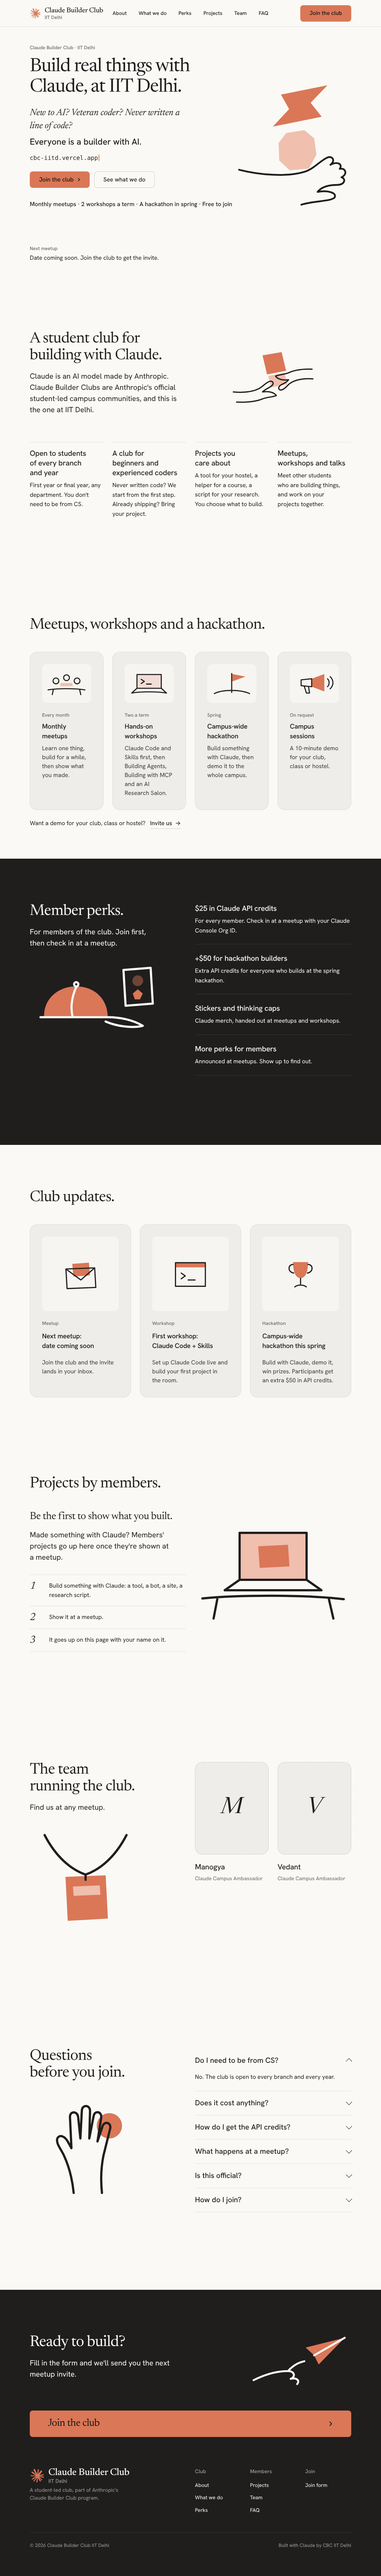
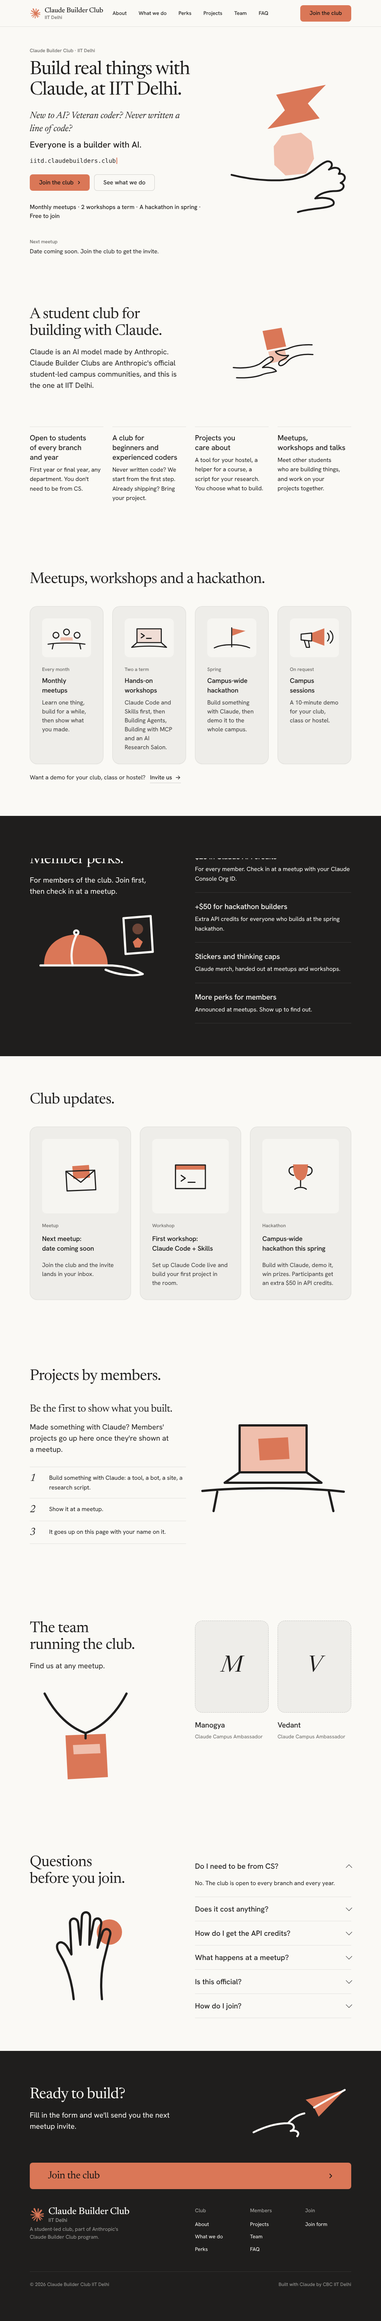
Size sections to their content instead of whole screens
The kit's one-section-per-screen heights left empty bands on phones and
laptops. Every section is now as tall as what it holds, with even spacing;
the hero keeps the meetup line under the words and the drawing beside them.
Screenshots refreshed.

Claude-Session: https://claude.ai/code/session_01NmTKE1EcXAeuXHtT4Ci9MJ

diff --git a/css/site.css b/css/site.css
@@ -213,3 +213,40 @@ html.js-fade .fade-up.is-in { opacity: 1; transform: none; }
 @media (min-width: 640px) and (max-width: 1023px) { .draw--perks svg { height: 216px; } }
 .lockup__name, .lockup__place { white-space: nowrap; }
 @media (max-width: 639px) { svg.close__art { display: block; height: 150px; margin-top: var(--s-5); } }
+
+/* Every width: sections are as tall as what they hold, with even spacing between them. The kit sizes each
+   section to whole screens (one section per screen), which left empty bands on phones and laptops alike;
+   the club asked for the page without them. */
+main > section, footer.closing { height: auto !important; min-height: 0 !important; display: block !important; padding: 96px 0 88px !important; }
+main > section > .wrap, footer.closing > .wrap { height: auto !important; }
+main > section.g2m > .wrap, footer.closing.g2m > .wrap { grid-template-rows: none !important; row-gap: var(--s-7) !important; }
+footer.closing > .wrap { display: grid; row-gap: var(--s-9); }
+.card.update, .card.act { height: auto; }
+
+/* the hero: the words, the facts and the next meetup in one column, the drawing beside them */
+main > section.hero { padding: calc(var(--nav) + 56px) 0 40px !important; }
+.hero--statement .hero__in { justify-content: flex-start; }
+.meetup { margin-top: var(--s-7); }
+@media (min-width: 1024px) {
+  .hero--statement .hero__in { display: grid; grid-template-columns: minmax(0, 1fr) minmax(0, 5fr); column-gap: var(--gutter); align-items: center; }
+  .hero__words { grid-column: 1; grid-row: 1; }
+  .meetup { grid-column: 1; grid-row: 2; align-self: start; }
+  .hero-drawing { position: static; translate: none; grid-column: 2; grid-row: 1 / span 2; width: 100%; max-width: 440px; justify-self: end; }
+  .hero--statement .hero__in { grid-template-columns: minmax(0, 7fr) minmax(0, 5fr); }
+}
+@media (min-width: 640px) and (max-width: 1023px) {
+  main > section, footer.closing { padding: 88px 0 80px !important; }
+  main > section.hero { padding: calc(var(--nav) + 48px) 0 80px !important; }
+  .hero-drawing { position: static; translate: none; width: 300px; margin: var(--s-6) 0 0 auto; }
+}
+@media (max-width: 639px) {
+  main > section, footer.closing { padding: 72px 0 64px !important; }
+  main > section.hero { padding: calc(var(--nav) + 40px) 0 56px !important; }
+  .about__b .draw--about svg { height: 220px; }
+  .update__panel { height: 170px; }
+  .update__panel svg { width: 46%; }
+  .draw--perks svg { height: 180px; }
+  .draw--team svg { height: 140px; }
+  .draw--projects svg { height: 180px; }
+  svg.close__art { height: 120px; }
+}
